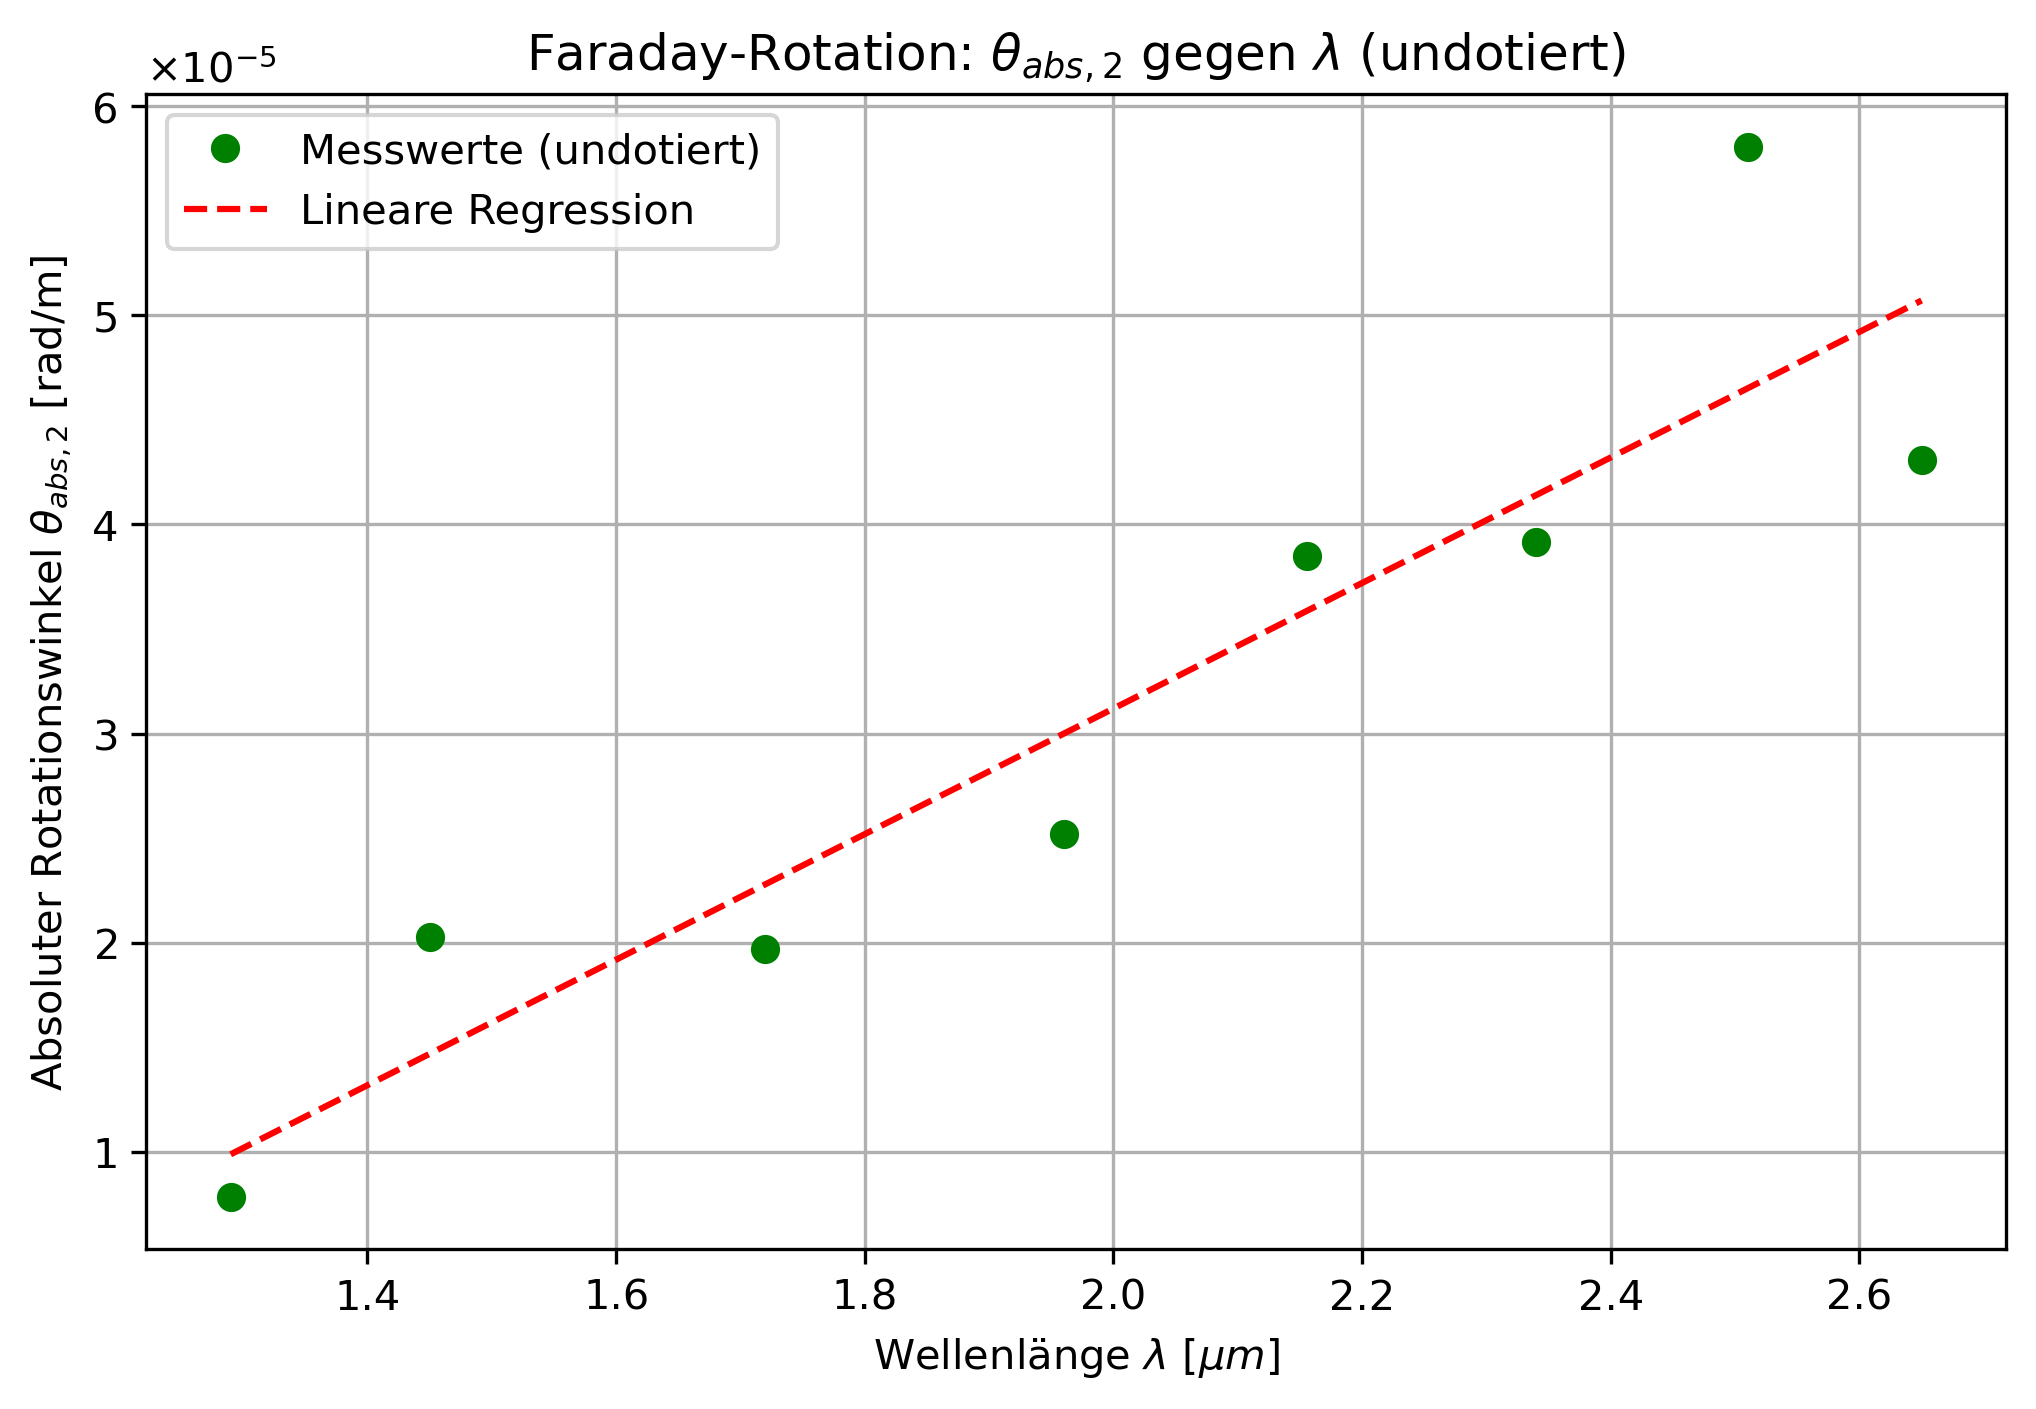
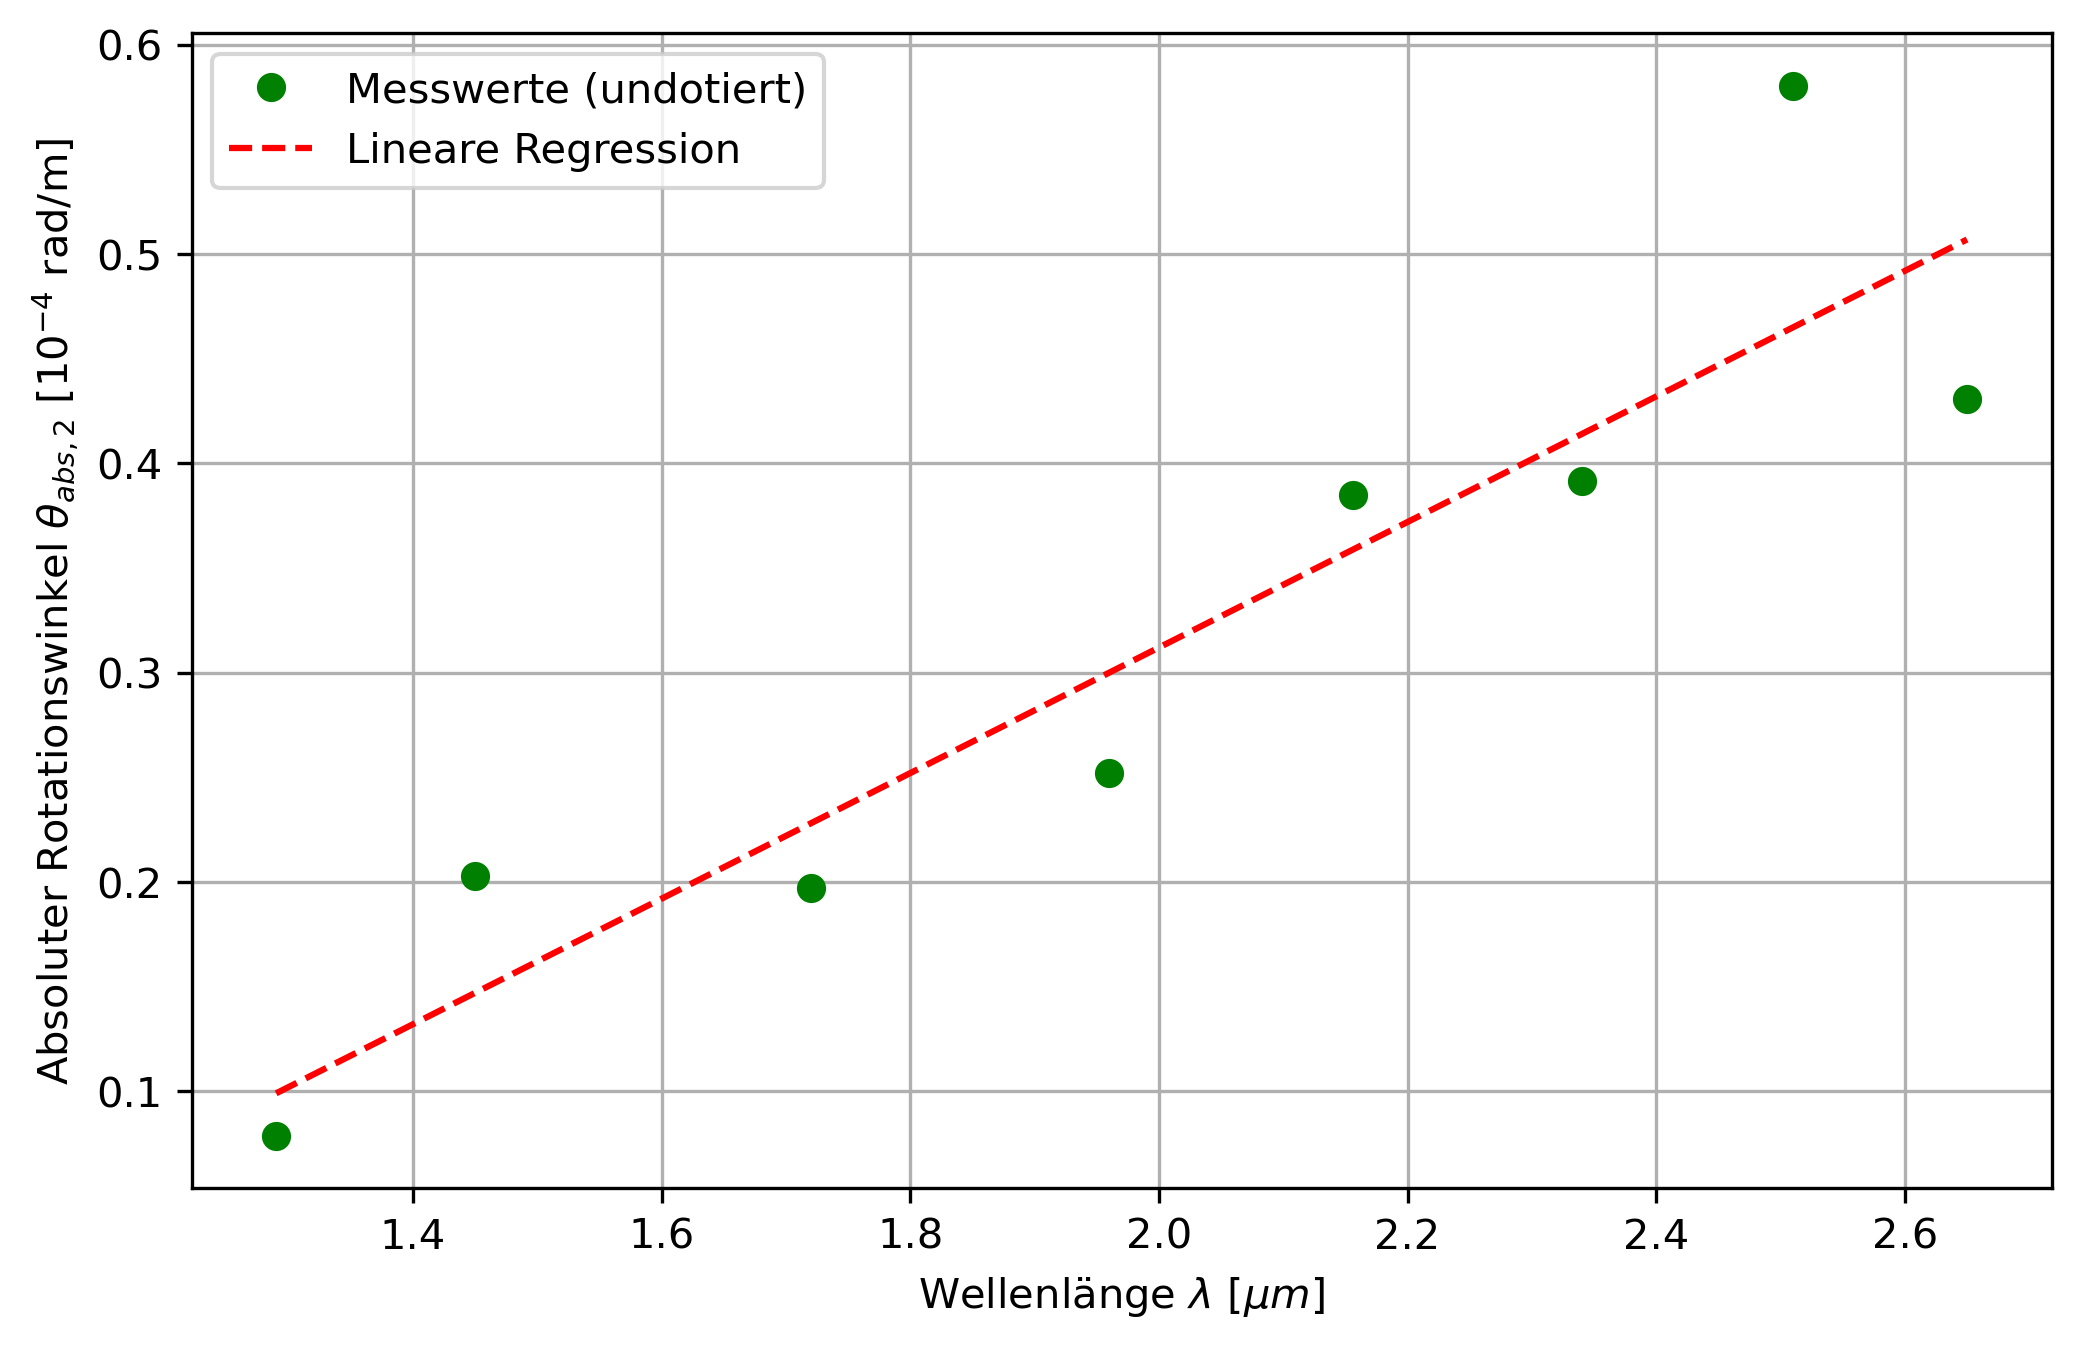
auswertung

diff --git a/v46/masse2.py b/v46/masse2.py
@@ -9,7 +9,6 @@ dir_tab = "content/tables/"
 df = pd.read_excel('raw/undotiert.ods', engine='odf', skiprows=1)
 
 # 2. Spalten auslesen, Kommas ersetzen und Fehler in 'NaN' umwandeln
-# lambda[µm] liegt auf Index 1, theta_abs_2 liegt nun auf Index 12
 wellenlaenge = pd.to_numeric(df.iloc[:, 1].astype(str).str.replace(',', '.'), errors='coerce')
 theta_abs_2 = pd.to_numeric(df.iloc[:, 12].astype(str).str.replace(',', '.'), errors='coerce')
 
@@ -19,6 +18,7 @@ w_clean = wellenlaenge[mask]
 t_clean = theta_abs_2[mask]
 
 # 3. Lineare Regression mit Gewichten und unskalierter Kovarianzmatrix berechnen
+# (Rechnung bleibt in Originalwerten, damit die Prints stimmen!)
 params, cov = np.polyfit(w_clean, t_clean, 1, cov=True)
 m = params[0] # Steigung
 b = params[1] # y-Achsenabschnitt
@@ -35,23 +35,23 @@ y_fit = m * x_fit + b
 print(f"Steigung (m): {m:.2e} +/- {m_err:.2e}")
 print(f"y-Achsenabschnitt (b): {b:.2e} +/- {b_err:.2e}")
 
+# --- NEU: Werte NUR für die Optik im Plot auf 10^-4 skalieren ---
+t_clean_plot = t_clean * 10**4
+y_fit_plot = y_fit * 10**4
+
 # 4. Diagramm plotten
 plt.figure(figsize=(8, 5))
-plt.plot(w_clean, t_clean, 'go', label='Messwerte (undotiert)')
+plt.plot(w_clean, t_clean_plot, 'go', label='Messwerte (undotiert)')
 
 # Regressionsgerade einzeichnen (rot, gestrichelt)
-plt.plot(x_fit, y_fit, 'r--', label='Lineare Regression')
+plt.plot(x_fit, y_fit_plot, 'r--', label='Lineare Regression')
 
-# 5. Wissenschaftliche Notation (10^-5 Skala) für die y-Achse aktivieren
-plt.ticklabel_format(style='sci', axis='y', scilimits=(0,0), useMathText=True)
-
-# 6. Achsen passend beschriften
+# 5. Achsen passend beschriften (Vorfaktor direkt im Label!)
 plt.xlabel(r'Wellenlänge $\lambda$ [$\mu m$]')
-plt.ylabel(r'Absoluter Rotationswinkel $\theta_{abs,2}$ [rad/m]')
-plt.title(r'Faraday-Rotation: $\theta_{abs,2}$ gegen $\lambda$ (undotiert)')
+plt.ylabel(r'Absoluter Rotationswinkel $\theta_{abs,2}$ [$10^{-4}$ rad/m]')
 
 plt.grid(True)
 plt.legend()
 
-# 7. Plot in hoher Auflösung speichern
+# 6. Plot in hoher Auflösung speichern
 plt.savefig(dir + 'theta_abs_2_vs_lambda_linreg.png', dpi=300, bbox_inches='tight')

diff --git a/v46/content/auswertung.tex b/v46/content/auswertung.tex
@@ -22,11 +22,11 @@ Der Einfachheit halber wird hierbei das Python-Paket \textit{uncertainties} verw
 % Ende Fehlerrechnung
 
 \subsection{Bestimmung des B-Feldes}
-Im Folgenden sind die Messwerte zur Bestimmung des B-Feldes aufgetragen.
+Im ersten Teil der Auswertung wird das maximal B-Feld bestimmt. Hierbei sind die Messwerte zur Bestimmung des B-Feldes in Abhängigkeit des Abstands aufgetragen.
 
 \begin{table}[H]
     \centering
-    \caption{Messwerte der magnetischen Kraftflussdichte entlang der z-Achse}
+    \caption{Messwerte des B-Feldes entlang der z-Achse}
     \label{tab:magnetfeld}
     \begin{tabular}{rrr}
         \toprule
@@ -70,7 +70,7 @@ Zur Bestimmung des maximalen B-Feldes, also dem B-Feld in dem unsere Proben sitz
 
 \subsection{Drehwinkel der Proben}
 
-Im Folgenden sind die Messwerte zur Bestimmung der Drehwinkel der Proben aufgetragen.
+Im nächsten Schritt werden die Messwerte der Drehwinkel der einzelnen Proben bei verschieden Wellenlängen der Interferenzfilter aufgetragen.
 
 \begin{table}[htpb]
     \centering
@@ -95,8 +95,14 @@ Im Folgenden sind die Messwerte zur Bestimmung der Drehwinkel der Proben aufgetr
     \end{tabular}
 \end{table}
 
+Mithilfe von 
+\begin{equation}
+    1 rad = \frac{\qty{360}{\degree}}{2 \pi}\end{equation}
+und 
+\begin{equation*}
+    \qty{1}{\arcminute} = \frac{1}{60} \unit{\degree}\end{equation*}
+wird der Winkel vom Gradmaß in Bogenmaß umgerechnet.
 Im Folgenden werden die Drehwinkel für die drei Proben in Abhängigkeit der Wellenlänge graphisch aufgetragen. 
-
 
 \begin{figure}[H]
     \centering
@@ -116,7 +122,7 @@ Im Folgenden werden die Drehwinkel für die drei Proben in Abhängigkeit der Wel
     \caption{Drehwinkel der zweiten n-dotierter Probe in Abhängigkeit der Wellenlänge.}
 \end{figure}
 \subsection{Bestimmung der effektiven Masse}
-Im Folgenden wird der die Differenz der n-dotierten Proben zu der undotierten Probe gebildet, um die effektive Masse zu bestimmen.
+Im Folgenden wird die Differenz der Drehwinkel der n-dotierten Proben zu der undotierten Probe gebildet, um die effektive Masse zu bestimmen.
 
 \begin{figure}[H]
     \centering

diff --git a/v46/ndotiert2.py b/v46/ndotiert2.py
@@ -14,15 +14,16 @@ theta_skaliert = df.iloc[:, 6].astype(str).str.replace(',', '.').astype(float)
 # Wellenlänge quadrieren
 lambda_sq = wellenlaenge ** 2
 
-# Plot erstellen
-plt.figure(figsize=(8, 5))
-plt.plot(lambda_sq, theta_skaliert, 'bo', label='Messwerte')
+# NEU: Werte manuell für die 10^-4 Skalierung anpassen
+theta_skaliert_angepasst = theta_skaliert * 10**4
 
-# NEU: Wissenschaftliche Notation für die y-Achse aktivieren
-plt.ticklabel_format(style='sci', axis='y', scilimits=(0,0), useMathText=True)
+# Plot erstellen (jetzt mit den angepassten Werten)
+plt.figure(figsize=(8, 5))
+plt.plot(lambda_sq, theta_skaliert_angepasst, 'bo', label='Messwerte')
 
 plt.xlabel(r'Wellenlänge $\lambda^2$ [$\mu m^2$]')
-plt.ylabel(r'Normierter Rotationswinkel $\theta_{skaliert}$ [rad/m]')
+# NEU: Den Vorfaktor 10^-4 direkt ins Label schreiben
+plt.ylabel(r'Normierter Rotationswinkel $\theta_{skaliert}$ [$10^{-4}$ rad/m]')
 plt.title(r'Faraday-Rotation: $\theta_{skaliert}$ gegen $\lambda^2$ (n-dotiert 2)')
 
 plt.grid(True)

diff --git a/v46/bfeld.py b/v46/bfeld.py
@@ -23,13 +23,11 @@ plt.figure(figsize=(10, 6))
 plt.plot(z_werte, B_werte, 'bx', label='Messwerte')
 
 # NEU: Nur Linien durch das Maximum ziehen (vertikal und horizontal)
-plt.axvline(z_max, color='r', linestyle='--', label=f'z_max = {z_max} mm')
 plt.axhline(B_max, color='r', linestyle=':', alpha=0.7, label=f'B_max = {B_max} mT')
 plt.plot(z_max, B_max, 'ro') # Roter Punkt direkt auf dem Maximum
 
 plt.xlabel('Ort z [mm]')
 plt.ylabel('Kraftflussdichte B [mT]')
-plt.title('Magnetfeldverlauf der Spule')
 plt.legend()
 plt.grid(True)
 

diff --git a/header.tex b/header.tex
@@ -126,17 +126,17 @@
 %  Code Einbindung
 \usepackage{xcolor}
 \definecolor{LightGray}{gray}{0.9}
-\usepackage{minted}
-\setminted{
-  autogobble,
-  breaklines,
-  stripnl=true,
-  linenos,
-  bgcolor=LightGray,
-  fontsize=\footnotesize,
-  baselinestretch=1.2,
-  style=tango
-}
+%\usepackage{minted}
+%\setminted{
+%  autogobble,
+%  breaklines,
+%  stripnl=true,
+%  linenos,
+%  bgcolor=LightGray,
+%  fontsize=\footnotesize,
+%  baselinestretch=1.2,
+%  style=tango
+%}
 
 % Hyperlinks im Dokument
 \usepackage[
